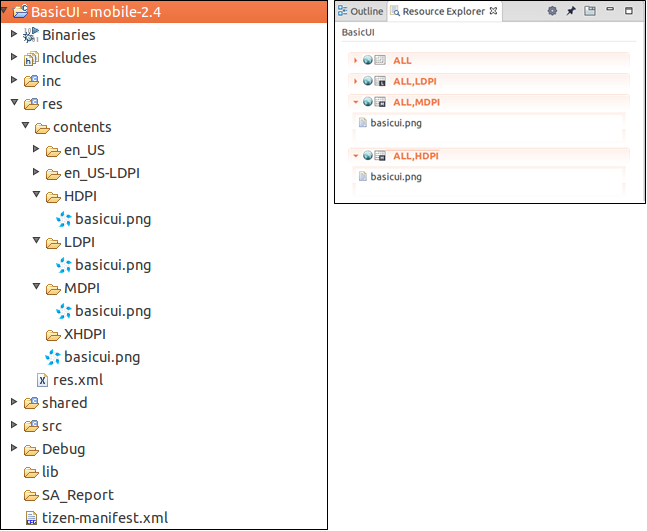
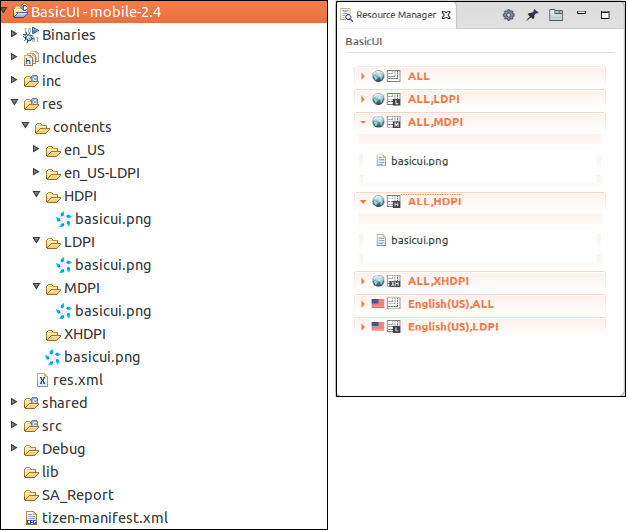
Change Resource Explorer to Resource Manager

diff --git a/org.tizen.devtools/html/native_tools/resource_manager_n.htm b/org.tizen.devtools/html/native_tools/resource_manager_n.htm
@@ -1,0 +1,258 @@
+<!DOCTYPE html PUBLIC "-//W3C//DTD XHTML 1.0 Transitional//EN" "http://www.w3.org/TR/xhtml1/DTD/xhtml1-transitional.dtd">
+<html xmlns="http://www.w3.org/1999/xhtml" xml:lang="en" lang="en">
+<head>
+	<meta http-equiv="content-type" content="text/html; charset=utf-8"/>
+	<meta http-equiv="X-UA-Compatible" content="IE=9" />
+	<link rel="stylesheet" type="text/css" href="../css/styles.css" />
+	<link rel="stylesheet" type="text/css" href="../css/snippet.css" />
+	<script type="text/javascript" src="../scripts/snippet.js"></script>	
+	<script type="text/javascript" src="../scripts/jquery.util.js" charset="utf-8"></script>
+	<script type="text/javascript" src="../scripts/common.js" charset="utf-8"></script>
+	<script type="text/javascript" src="../scripts/core.js" charset="utf-8"></script>
+	<script type="text/javascript" src="../scripts/search.js" charset="utf-8"></script>
+  <title>Resource Manager</title> 
+ </head> 
+ <body onload="prettyPrint()" style="overflow: auto;">
+ 
+ <div id="toc-navigation">
+	<div id="profile">
+		<p><img alt="Mobile native" src="../images/mobile_s_n.png"/></p>
+	</div>
+	
+	<div id="toc_border"><div id="toc">
+		<p class="toc-title">Content</p>
+		<ul class="toc">	 
+		 <li><a href="#config">Providing Configuration-specific Alternative Resources</a></li>	
+		 <li><a href="#example">Managing Resources in the SDK</a></li>
+		</ul>
+	</div></div>
+</div>	
+
+<div id="container"><div id="contents"><div class="content">
+
+  <h1>Resource Manager</h1> 
+  
+<p>Tizen native applications can run on different types of devices, such as wearable, phone, tablets, and TVs. Tizen also supports various resolutions (WVGA ~ XQXGA) and resources. Regardless of these advantages, remember that you must always polish your work to create an optimal application for each device.</p>
+
+  <table class="note"> 
+   <tbody> 
+    <tr> 
+     <th class="note">Note</th> 
+    </tr> 
+    <tr> 
+     <td class="note">The <strong>Resource Manager</strong> is supported only in 2.4 platform. If the <strong>Resource Manager</strong> view is not supported, check the <strong>Project Version</strong> and the <strong>Api Version</strong> in tizen-manifest.xml.</td> 
+    </tr> 
+   </tbody> 
+  </table>
+
+<h2 id="config" name="config">Providing Configuration-specific Alternative Resources</h2>
+
+<p>An application must provide a different UI depending on a specific device configuration, such as the screen size and screen orientation. When developing the application, provide alternative resources for each device display state by grouping them in resource directories.</p>
+
+<h3>Predefined Resource Directory Hierarchy</h3>
+
+<p>The <span style="font-family: Courier New,Courier,monospace">res/contents</span> directory contains predefined directories for specific alternative resources, and the <span style="font-family: Courier New,Courier,monospace">res.xml</span> file that is referenced at application runtime.</p>
+
+<p>The following example of a BasicUI project shows how to group the resources in your project. Place resources, such as images and sounds, in a specific subdirectory of the project&#39;s <span style="font-family: Courier New,Courier,monospace">res/contents</span> directory or the root directory of the <span style="font-family: Courier New,Courier,monospace">contents</span> directory.</p>
+<pre class="prettyprint">
+BasicUI/
+&nbsp;&nbsp;&nbsp;res/
+&nbsp;&nbsp;&nbsp;&nbsp;&nbsp;&nbsp;contents/
+&nbsp;&nbsp;&nbsp;&nbsp;&nbsp;&nbsp;&nbsp;&nbsp;&nbsp;LDPI /
+&nbsp;&nbsp;&nbsp;&nbsp;&nbsp;&nbsp;&nbsp;&nbsp;&nbsp;&nbsp;&nbsp;&nbsp;&nbsp;&nbsp;&nbsp;basicui.png
+&nbsp;&nbsp;&nbsp;&nbsp;&nbsp;&nbsp;&nbsp;&nbsp;&nbsp;MDPI/
+&nbsp;&nbsp;&nbsp;&nbsp;&nbsp;&nbsp;&nbsp;&nbsp;&nbsp;&nbsp;&nbsp;&nbsp;basicui.png
+&nbsp;&nbsp;&nbsp;&nbsp;&nbsp;&nbsp;&nbsp;&nbsp;&nbsp;basicui.png
+&nbsp;&nbsp;&nbsp;&nbsp;&nbsp;&nbsp;&nbsp;&nbsp;&nbsp;res.xml
+</pre>
+
+  <table class="note"> 
+   <tbody> 
+    <tr> 
+     <th class="note">Note</th> 
+    </tr> 
+    <tr> 
+     <td class="note">Always include default resources in the root directory (not in a subdirectory of the <span style="font-family: Courier New,Courier,monospace">contents</span> directory) to ensure that your application has no dependencies on a specific device configuration.</td> 
+    </tr> 
+   </tbody> 
+  </table>
+
+<p>A specific subdirectory is named as <span style="font-family: Courier New,Courier,monospace">configuration-qualifier</span>. The configuration-qualifier is an indicator that represents each device configuration and more content can be appended to it with a dash (-). The following table shows the 2 configuration-qualifier types currently supported  by the SDK.</p>
+
+<table>
+<caption>Table: Configuration-qualifiers</caption>
+
+<tbody>
+<tr>
+ <th>Configuration-qualifier name</th>
+ <th>Type value</th>
+ <th>Description</th>
+</tr>
+ <tr>
+ <td>Language and region code</td>
+ <td>For example, <span style="font-family: Courier New,Courier,monospace">en_US</span> or <span style="font-family: Courier New,Courier,monospace">en_UK</span></td>
+ <td>The type values have the form <span style="font-family: Courier New,Courier,monospace">ll_CC</span>, where <span style="font-family: Courier New,Courier,monospace">ll</span> stands for an ISO 639 2-letter language code, and the optionally followed <span style="font-family: Courier New,Courier,monospace">CC</span> stands for an ISO 3166 2-upper letter region code.</td>
+ </tr>
+ <tr>
+ <td>DPI (Dot Per Inch) density</td>
+ <td><span style="font-family: Courier New,Courier,monospace">LDPI</span>
+<p><span style="font-family: Courier New,Courier,monospace">MDPI</span></p>
+<p><span style="font-family: Courier New,Courier,monospace">HDPI</span></p>
+<p><span style="font-family: Courier New,Courier,monospace">XHDPI</span></p>
+<p><span style="font-family: Courier New,Courier,monospace">XXHDPI</span></p></td>
+ <td>LDPI: low-dpi from 0 to 240
+<p>MDPI: medium-dpi from 241 to 300</p>
+<p>HDPI: high-dpi from 301 to 380</p>
+<p>XHDPI: extra-high-dpi from 381 to 480</p>
+<p>XXHDPI: extra-extra-high-dpi from 481 to 600</p></td>
+ </tr>
+ </tbody></table>
+
+<p>Each application base scale can be applied to each DPI through a relation modification between the DPI and profile factor. For example, in case of the mobile profile, Z1 has a small screen (profile factor: 0.7) and the 1.8 base scale value, so LDPI is the proper DPI. Z3 has a large screen (profile factor: 0.8) and the 2.6 base scale value, so MDPI is the proper DPI.</p>
+
+<table>
+<caption>Table: DPI and profile factor</caption>
+
+<tbody>
+<tr>
+ <th>DPI type value</th>
+ <th>Small screen mobile
+<p>(profile factor: 0.7)</p></th>
+ <th>Large screen mobile
+<p>(profile factor: 0.8)</p></th>
+</tr>
+ <tr>
+ <td><span style="font-family: Courier New,Courier,monospace">LDPI</span>
+<p><span style="font-family: Courier New,Courier,monospace">MDPI</span></p>
+<p><span style="font-family: Courier New,Courier,monospace">HDPI</span></p>
+<p><span style="font-family: Courier New,Courier,monospace">XHDPI</span></p>
+<p><span style="font-family: Courier New,Courier,monospace">XXHDPI</span></p></td>
+ <td>0 ~ 1.9
+<p>1.9 ~ 2.3</p>
+<p>2.3 ~ 3.0</p>
+<p>3.0 ~ 3.7</p>
+<p>3.7 ~</p></td>
+ <td>0 ~ 2.1
+<p>2.1 ~ 2.7</p>
+<p>2.7 ~ 3.4</p>
+<p>3.4 ~ 4.3</p>
+<p>4.3 ~</p></td>
+ </tr>
+ </tbody></table>
+ 
+<p>The <span style="font-family: Courier New,Courier,monospace">res.xml</span> file is composed of XML elements and describes where each alternative resource is grouped into a device configuration. The following example shows a <span style="font-family: Courier New,Courier,monospace">res.xml</span> file based on the BasicUI project.</p>
+
+<pre class="prettyprint">
+&lt;?xml version=&quot;1.0&quot; encoding=&quot;UTF-8&quot; standalone=&quot;yes&quot;?&gt;
+&lt;res xmlns=&quot;http://tizen.org/ns/rm&quot;&gt;
+&nbsp;&nbsp;&nbsp;&lt;group-image folder=&quot;contents&quot;&gt;
+&nbsp;&nbsp;&nbsp;&nbsp;&nbsp;&nbsp;&lt;node folder=&quot;contents/LDPI&quot; screen-dpi-range=&quot;from 0 to 240&quot;/&gt;
+&nbsp;&nbsp;&nbsp;&nbsp;&nbsp;&nbsp;&lt;node folder=&quot;contents/MDPI&quot; screen-dpi-range=&quot;from 241 to 300&quot;/&gt;
+&nbsp;&nbsp;&nbsp;&lt;/group-image&gt;
+&lt;/res&gt;
+</pre>
+
+<p>The <span style="font-family: Courier New,Courier,monospace">res.xml</span> file is automatically generated as part of the build packaging process by the IDE. Since editing the <span style="font-family: Courier New,Courier,monospace">res.xml</span> file manually is not easy, the IDE helps to minimize this difficulty by supporting the <strong>Resource Manager</strong> view.</p>
+
+  <table class="note"> 
+   <tbody> 
+    <tr> 
+     <th class="note">Note</th> 
+    </tr> 
+    <tr> 
+     <td class="note">You cannot modify the <span style="font-family: Courier New,Courier,monospace">res.xml</span> file manually in IDE. The <span style="font-family: Courier New,Courier,monospace">res.xml</span> file is overridden by the IDE during the packaging process. You can disable the override in the project properties in the IDE (<strong>Properties &gt; Tizen SDK &gt; Package</strong>).</td> 
+    </tr> 
+   </tbody> 
+  </table>  
+
+<h3>Resource Manager View</h3> 
+<p>The <strong>Resource Manager</strong> view helps you to place resources to support specific device configurations, such as different screen densities.</p>
+
+<p>In the <strong>Resource Manager</strong> view, you can:</p>
+
+<ul><li>Show all resource configurations that the project provides (see the <a href="#tablist">Tab and folding lists</a> figure).</li>
+<li>Create multiple configuration-qualifier directories and remove them.</li>
+<li>Copy resources to an alternative directory by dragging and dropping into the view area. You can also remove resources.</li>
+<li>Generate code snippets by dragging and dropping into the source editor area.</li></ul>
+
+  <table class="note"> 
+   <tbody> 
+    <tr> 
+     <th class="note">Note</th> 
+    </tr> 
+    <tr> 
+     <td class="note">If the <strong>Resource Manager</strong> view is not visible, open it by selecting <strong>Window &gt; Show View &gt; Other &gt; Resource Manager</strong> from the IDE menu.</td> 
+    </tr> 
+   </tbody> 
+  </table>
+
+<p>To place the <span style="font-family: Courier New,Courier,monospace">rsc1.edc</span> file and the images referenced by the file for LDPI and MDPI (as shown in the resource directory hierarchy figure below), use the following steps:</p>
+
+<ol><li>Open the <strong>Resource Configuration</strong> dialog by clicking <img alt="Resource Configuration" src="../images/fallback_icon.png" /> from the toolbar menu in the <strong>Resource Manager</strong> view.
+<p align="center"><img alt="Resource directory hierarchy" src="../images/fallback_directory.png" /></p>
+</li>
+<li>Add a configuration by selecting <strong>LDPI</strong> and <strong>MDPI</strong> in the <strong>DPI</strong> combo box.</li>
+<li>Drag the <span style="font-family: Courier New,Courier,monospace">edje</span> folder and drop it into the proper tab list view area in the <strong>Resource Manager</strong> view.
+
+<p>The following figure shows the Tab list view (on the left) and the Folding list view (on the right) of the <strong>Resource Manager</strong> view. You can switch between the views using the buttons in the <strong>Resource Manager</strong> view toolbar menu (<img alt="Switch to folding" src="../images/fallback_folding.png" /> to switch to folding lists and <img alt="Switch to tabs" src="../images/fallback_tablist.png" /> to switch to tab lists).</p>
+ 
+<p id="tablist" align="center"><img alt="Tab and folding lists" src="../images/fallback_lists.png" /></p>  
+</li></ol>
+
+  <table class="note"> 
+   <tbody> 
+    <tr> 
+     <th class="note">Note</th> 
+    </tr> 
+    <tr> 
+     <td class="note">All images used by EDC file must be placed in the <span style="font-family: Courier New,Courier,monospace">edje_res</span> folder created by the SDK. The <span style="font-family: Courier New,Courier,monospace">edje_res</span> folder is excluded from the <span style="font-family: Courier New,Courier,monospace">.tpk</span> package file.</td> 
+    </tr> 
+   </tbody> 
+  </table>
+  
+<h2 id="example" name="example">Managing Resources in the SDK</h2>
+
+<p>The following steps provide a quick example for managing resources in the SDK:</p>
+
+<ol><li>Create a BasicUI project.</li>
+<li>Create a resource directory hierarchy and copy images into it.
+<p align="center"><img alt="Resource directory hierarchy and the Resource Manager" src="../images/fallback_hierarchy.png" /></p>  
+</li> 
+<li>Create a <span style="font-family: Courier New,Courier,monospace">res.xml</span> file with the Build Package command.</li>
+<li>Check the <span style="font-family: Courier New,Courier,monospace">res.xml</span> file.
+<p align="center"><img alt="res.xml" src="../images/fallback_resxml.png" /></p>
+</li> 
+<li>Add code for loading alternative resources by using the Resource Manager API (in <a href="../../../org.tizen.native.mobile.apireference/group__CAPI__RESOURCE__MANAGER__MODULE.html">mobile</a> and <a href="../../../org.tizen.native.wearable.apireference/group__CAPI__RESOURCE__MANAGER__MODULE.html">wearable</a> applications).
+<p align="center"><img alt="Resource Manager" src="../images/fallback_resmanager.png" /></p> 
+
+</li>
+<li>Build and run the BasicUI project.
+<p align="center"><img alt="Output" src="../images/fallback_output.png" /></p></li></ol>
+ 
+<p>In case of predefined application layouts (edc), you can use the <span style="font-family: Courier New,Courier,monospace">res.xml</span> file manually.</p>
+
+
+  
+<script type="text/javascript" src="../scripts/jquery.zclip.min.js"></script>
+<script type="text/javascript" src="../scripts/showhide.js"></script>
+</div></div></div>
+
+<a class="top sms" href="#"><img src="../images/btn_top.gif" alt="Go to top" /></a>
+
+<div id="footer">
+<p class="footer">Except as noted, this content - excluding the Code Examples - is licensed under <a href="http://creativecommons.org/licenses/by/3.0/legalcode" target="_blank">Creative Commons Attribution 3.0</a> and all of the Code Examples contained herein are licensed under <a href="https://www.tizen.org/bsd-3-clause-license" target="_blank">BSD-3-Clause</a>.<br/>For details, see the <a href="https://www.tizen.org/content-license" target="_blank">Content License</a>.</p>
+</div>
+
+<script type="text/javascript">
+var _gaq = _gaq || [];
+_gaq.push(['_setAccount', 'UA-25976949-1']);
+_gaq.push(['_trackPageview']);
+(function() {
+var ga = document.createElement('script'); ga.type = 'text/javascript'; ga.async = true;
+ga.src = ('https:' == document.location.protocol ? 'https://ssl' : 'http://www') + '.google-analytics.com/ga.js';
+var s = document.getElementsByTagName('script')[0]; s.parentNode.insertBefore(ga, s);
+})();
+</script>
+
+</body>
+</html>

diff --git a/org.tizen.devtools/html/native_tools/enventor_n.htm b/org.tizen.devtools/html/native_tools/enventor_n.htm
@@ -65,7 +65,7 @@
      <th class="note">Note</th>
     </tr>
     <tr>
-     <td class="note">For 2.4 platform, the Enventor is supported in Ubuntu and Windows. And, for 2.3.1 platform, it is supp     orted only in Ubuntu.</td>
+     <td class="note">For 2.4 platform, the Enventor is supported in Ubuntu and Windows. And, for 2.3.1 platform, it is supported only in Ubuntu.</td>
     </tr>
    </tbody>
   </table>
